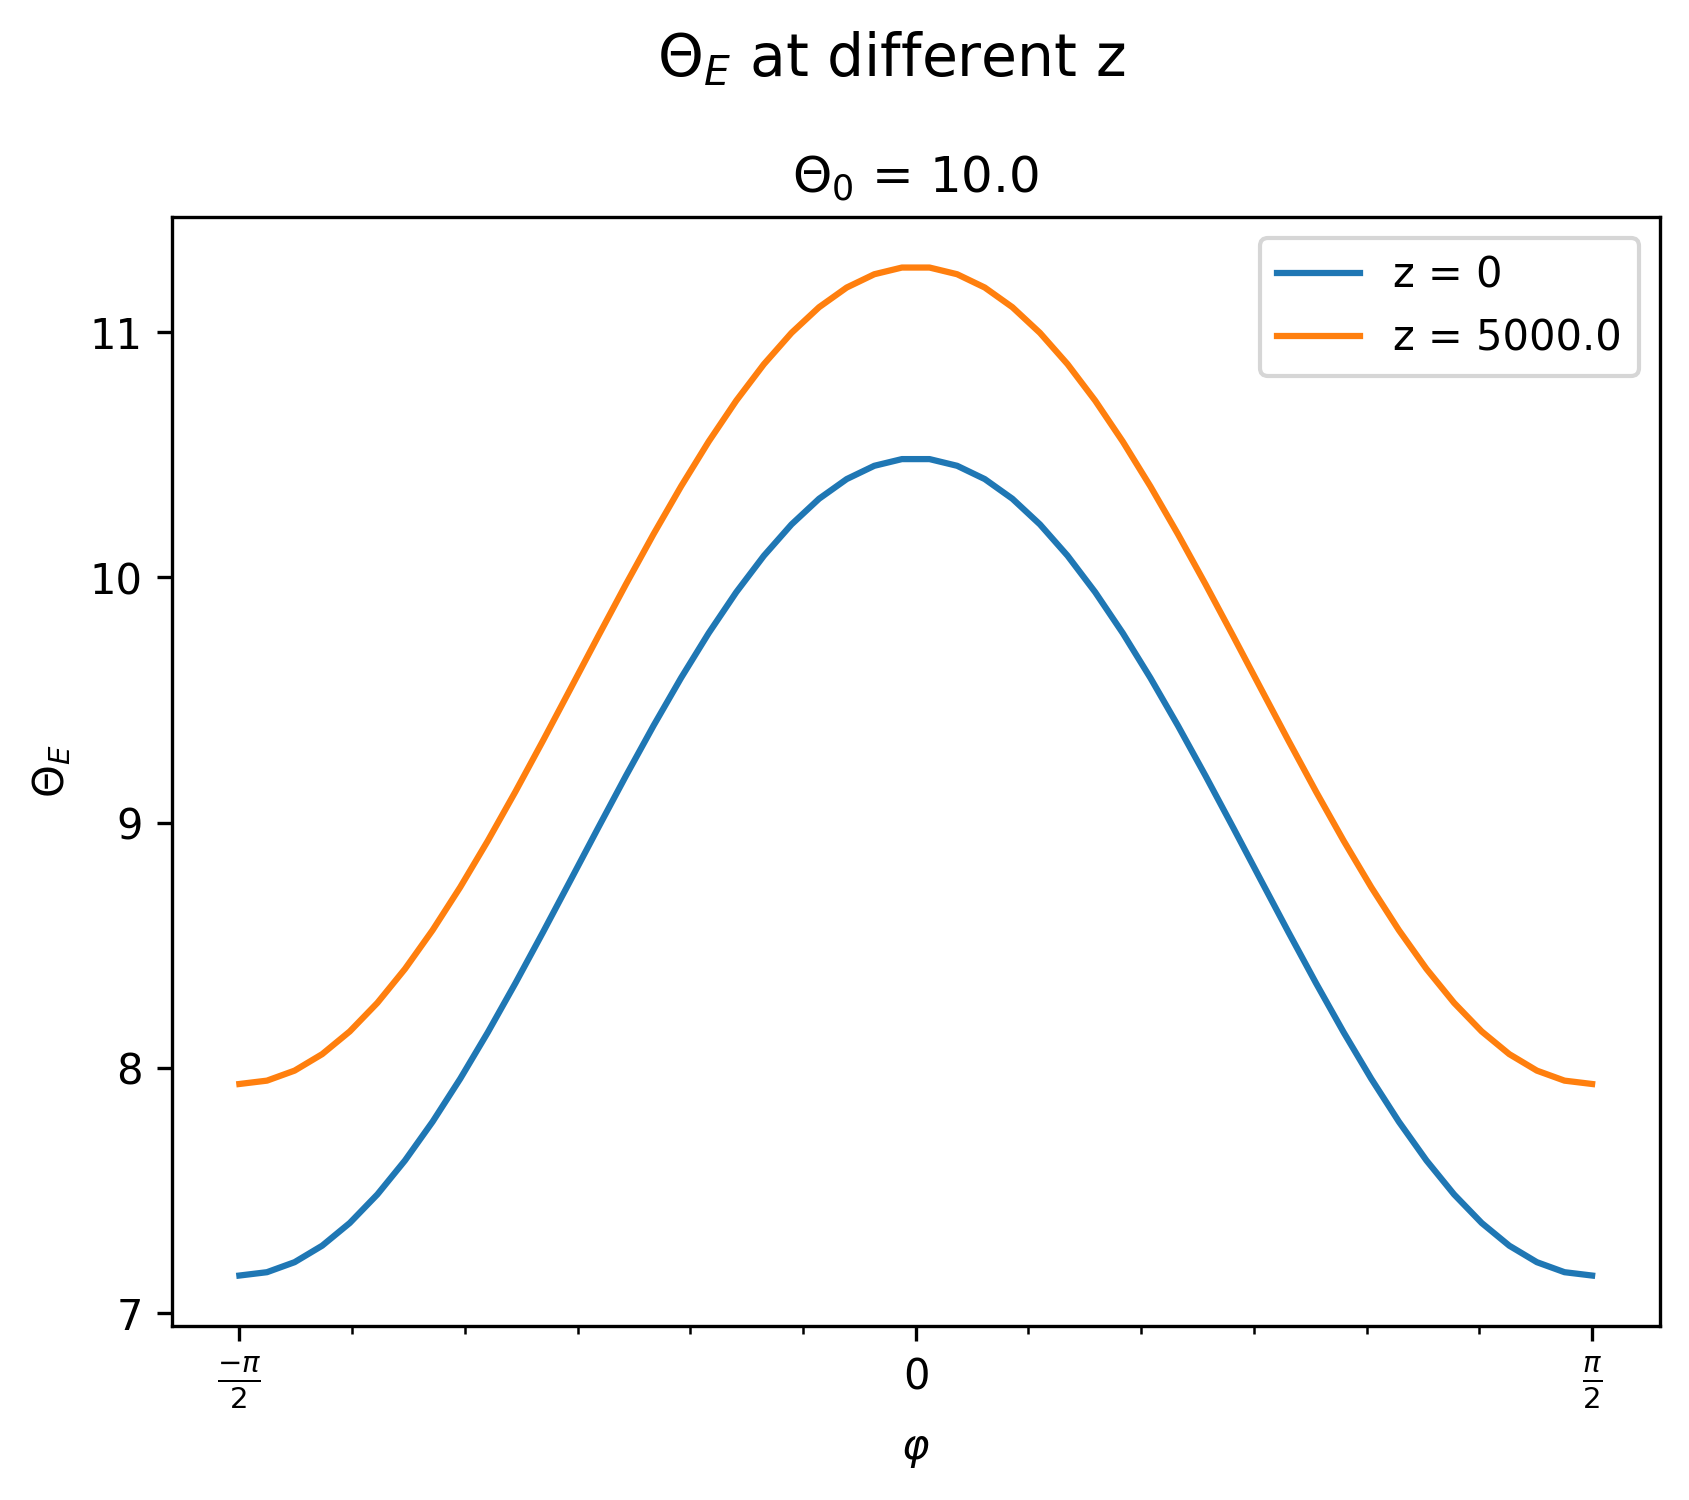
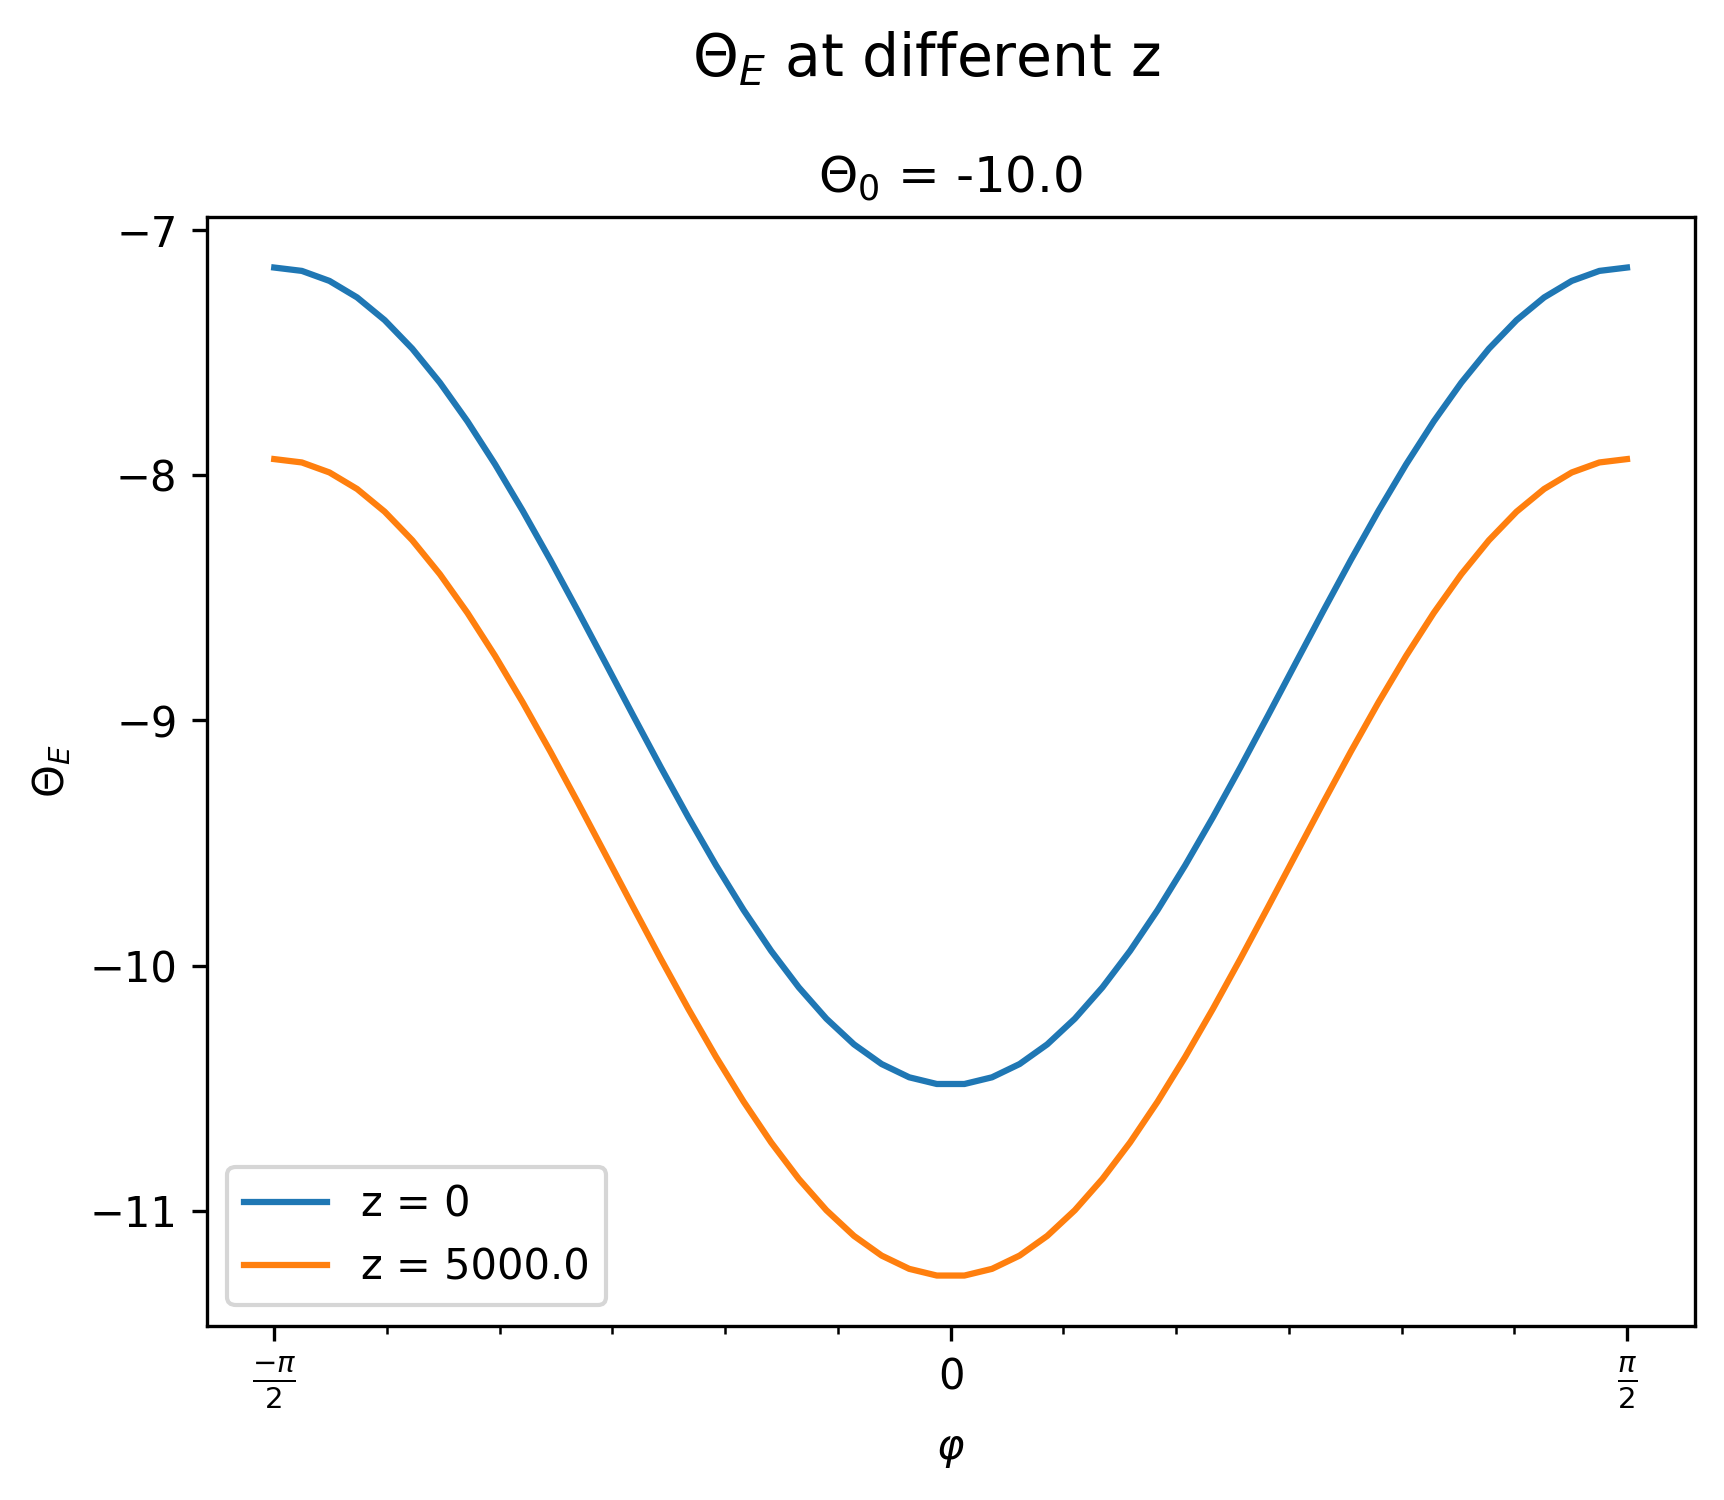
Make Theta_0 Negative

diff --git a/theta_e.py b/theta_e.py
@@ -50,7 +50,7 @@ H = 8000.
 z1 = 0
 z2 = 5e3
 
-theta_0 = 10.
+theta_0 = -10.
 
 phi = np.linspace(-0.5*np.pi,0.5*np.pi)
 sinphi = np.sin(phi)
